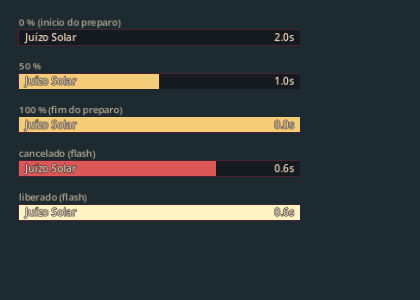
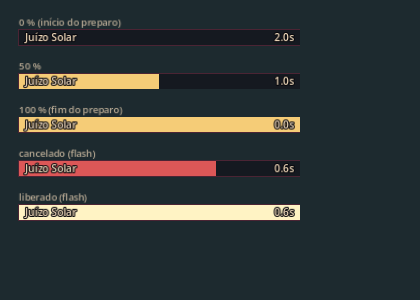
fix(e12-h3): C-H3.1 legible cast bar text over bright fills

diff --git a/docs/epics/e12/h3_delivery.md b/docs/epics/e12/h3_delivery.md
@@ -99,3 +99,25 @@ O `verify.ps1` roda em `--headless` e não captura.
 H4 liga os quatro componentes no `main.gd`/`combat_actor.gd` depois de H2 e H3: painel junto de
 VIDA e SP, `CastBar` acima da barra de atalhos, `ActorCastBar` no `_draw` com `show_label` para
 `elite`, `rare_elite` e `boss`, e os dois overlays na camada do mundo.
+
+## C-H3.1 — legibilidade do texto da barra de cast (correção)
+
+Pedido da arquitetura: nome e tempo da `CastBar` ficavam ilegíveis sobre o preenchimento claro
+(50 %, 100 % e liberado). Correção, sem mudar razão, cores da paleta nem APIs:
+
+- `HudPalette.TEXT_OUTLINE` passou a quase preto opaco (`0.02, 0.02, 0.04, 1.0`) e ganhou
+  `TEXT_OUTLINE_SIZE = 6` (antes 3, com alfa 0,95). `CastBar` (nome e tempo) e o rótulo do
+  `ActorCastBar` usam as duas constantes; os `plan()` expõem `outline_size` e `outline_color`.
+  O painel só herdou a cor de contorno mais escura (largura 3 mantida).
+- Teste: três checks novos em `hud_components_test` (contorno de tamanho >= 5, opaco e escuro;
+  todo `draw_string` tem o `draw_string_outline` correspondente em `cast_bar.gd` e
+  `actor_cast_bar.gd`; o rótulo do ator usa o mesmo contorno): 167 verificações, 0 falhas.
+- Capturas refeitas: `h3_cast_bar_player.png`, `h3_actor_cast_bar.png`, `h3_resource_panel.png`.
+- `tools/verify.ps1 -SkipEditorImport -F1Fixture -Test 'hud_components_test','hud_seam_test'`
+  (`.godot/verification/h3_c1/`, F1 reimportada antes porque os fontes mudaram): PASS ambos.
[2 lines of base64/hex data omitted]
+- Os números de 164 verificações e o hash do log do recibo acima valem para `f9208c8b`; a
+  entrega corrigida é o commit desta seção.
+- A decisão A7 do índice (IDs ausentes ou mortos em `target_marks` ignorados) já era cumprida
+  pelo `KitWorldOverlay` (testes de ID desconhecido e de ator liberado).
